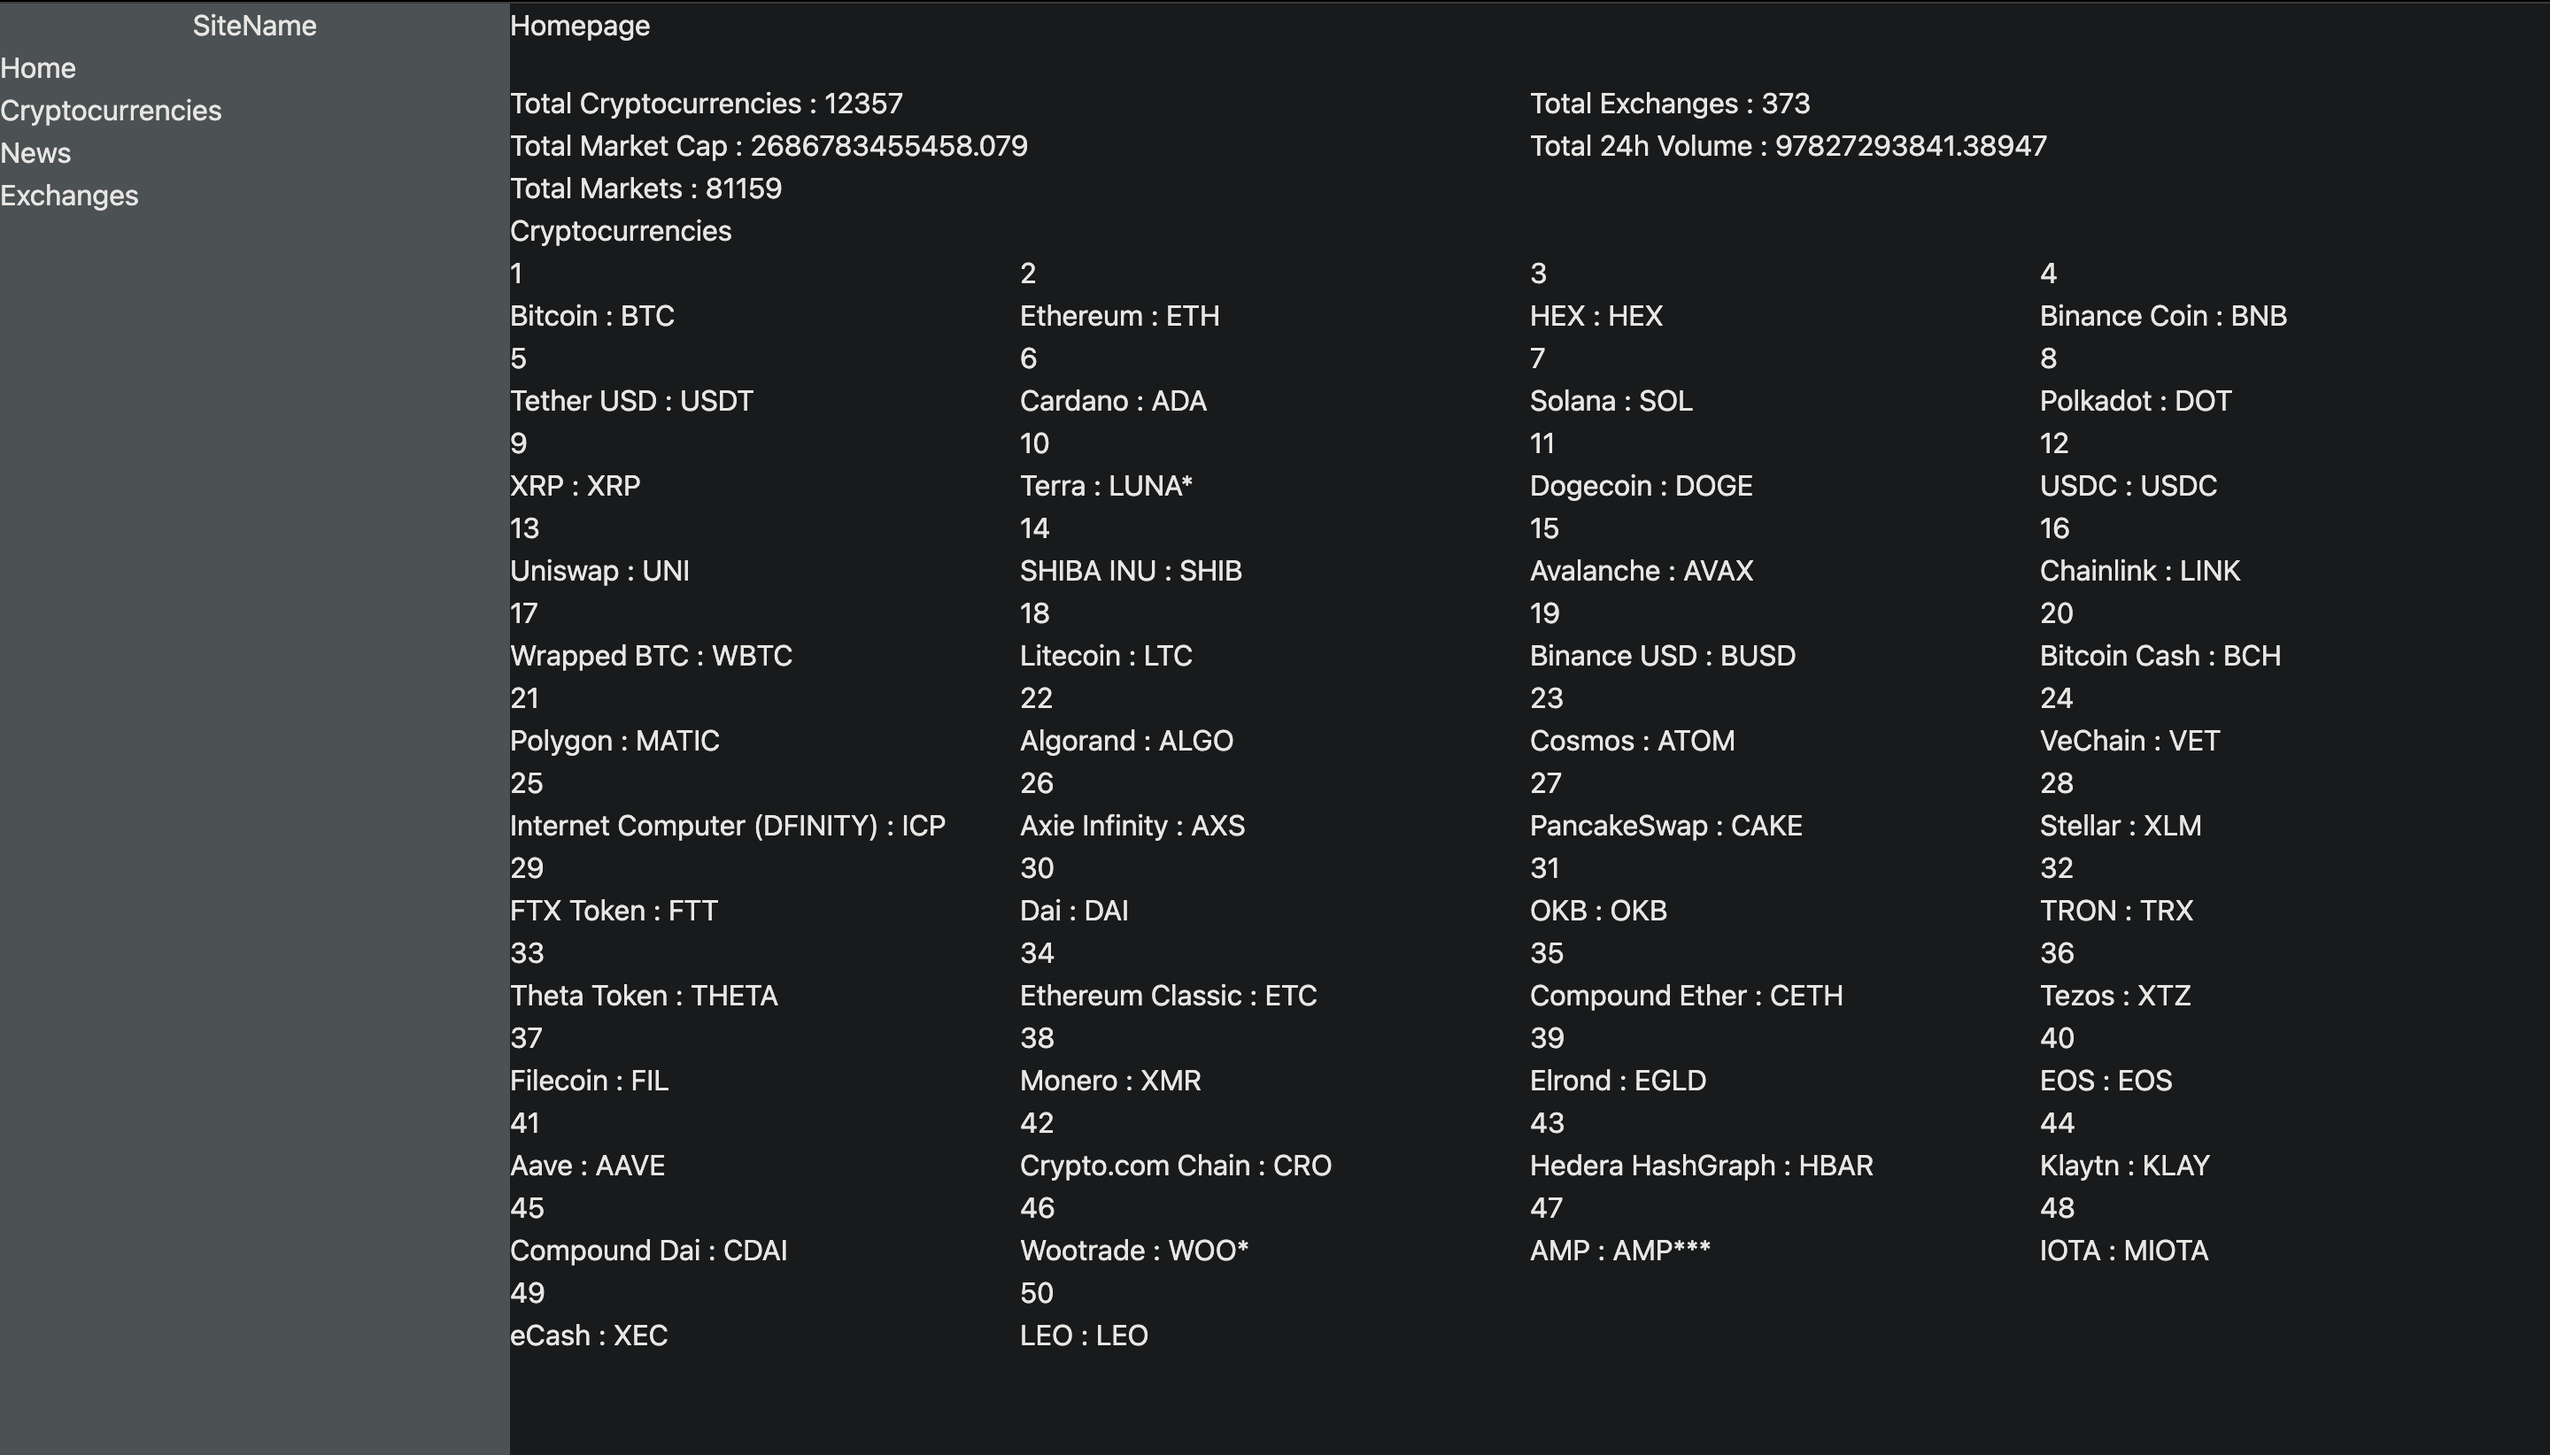
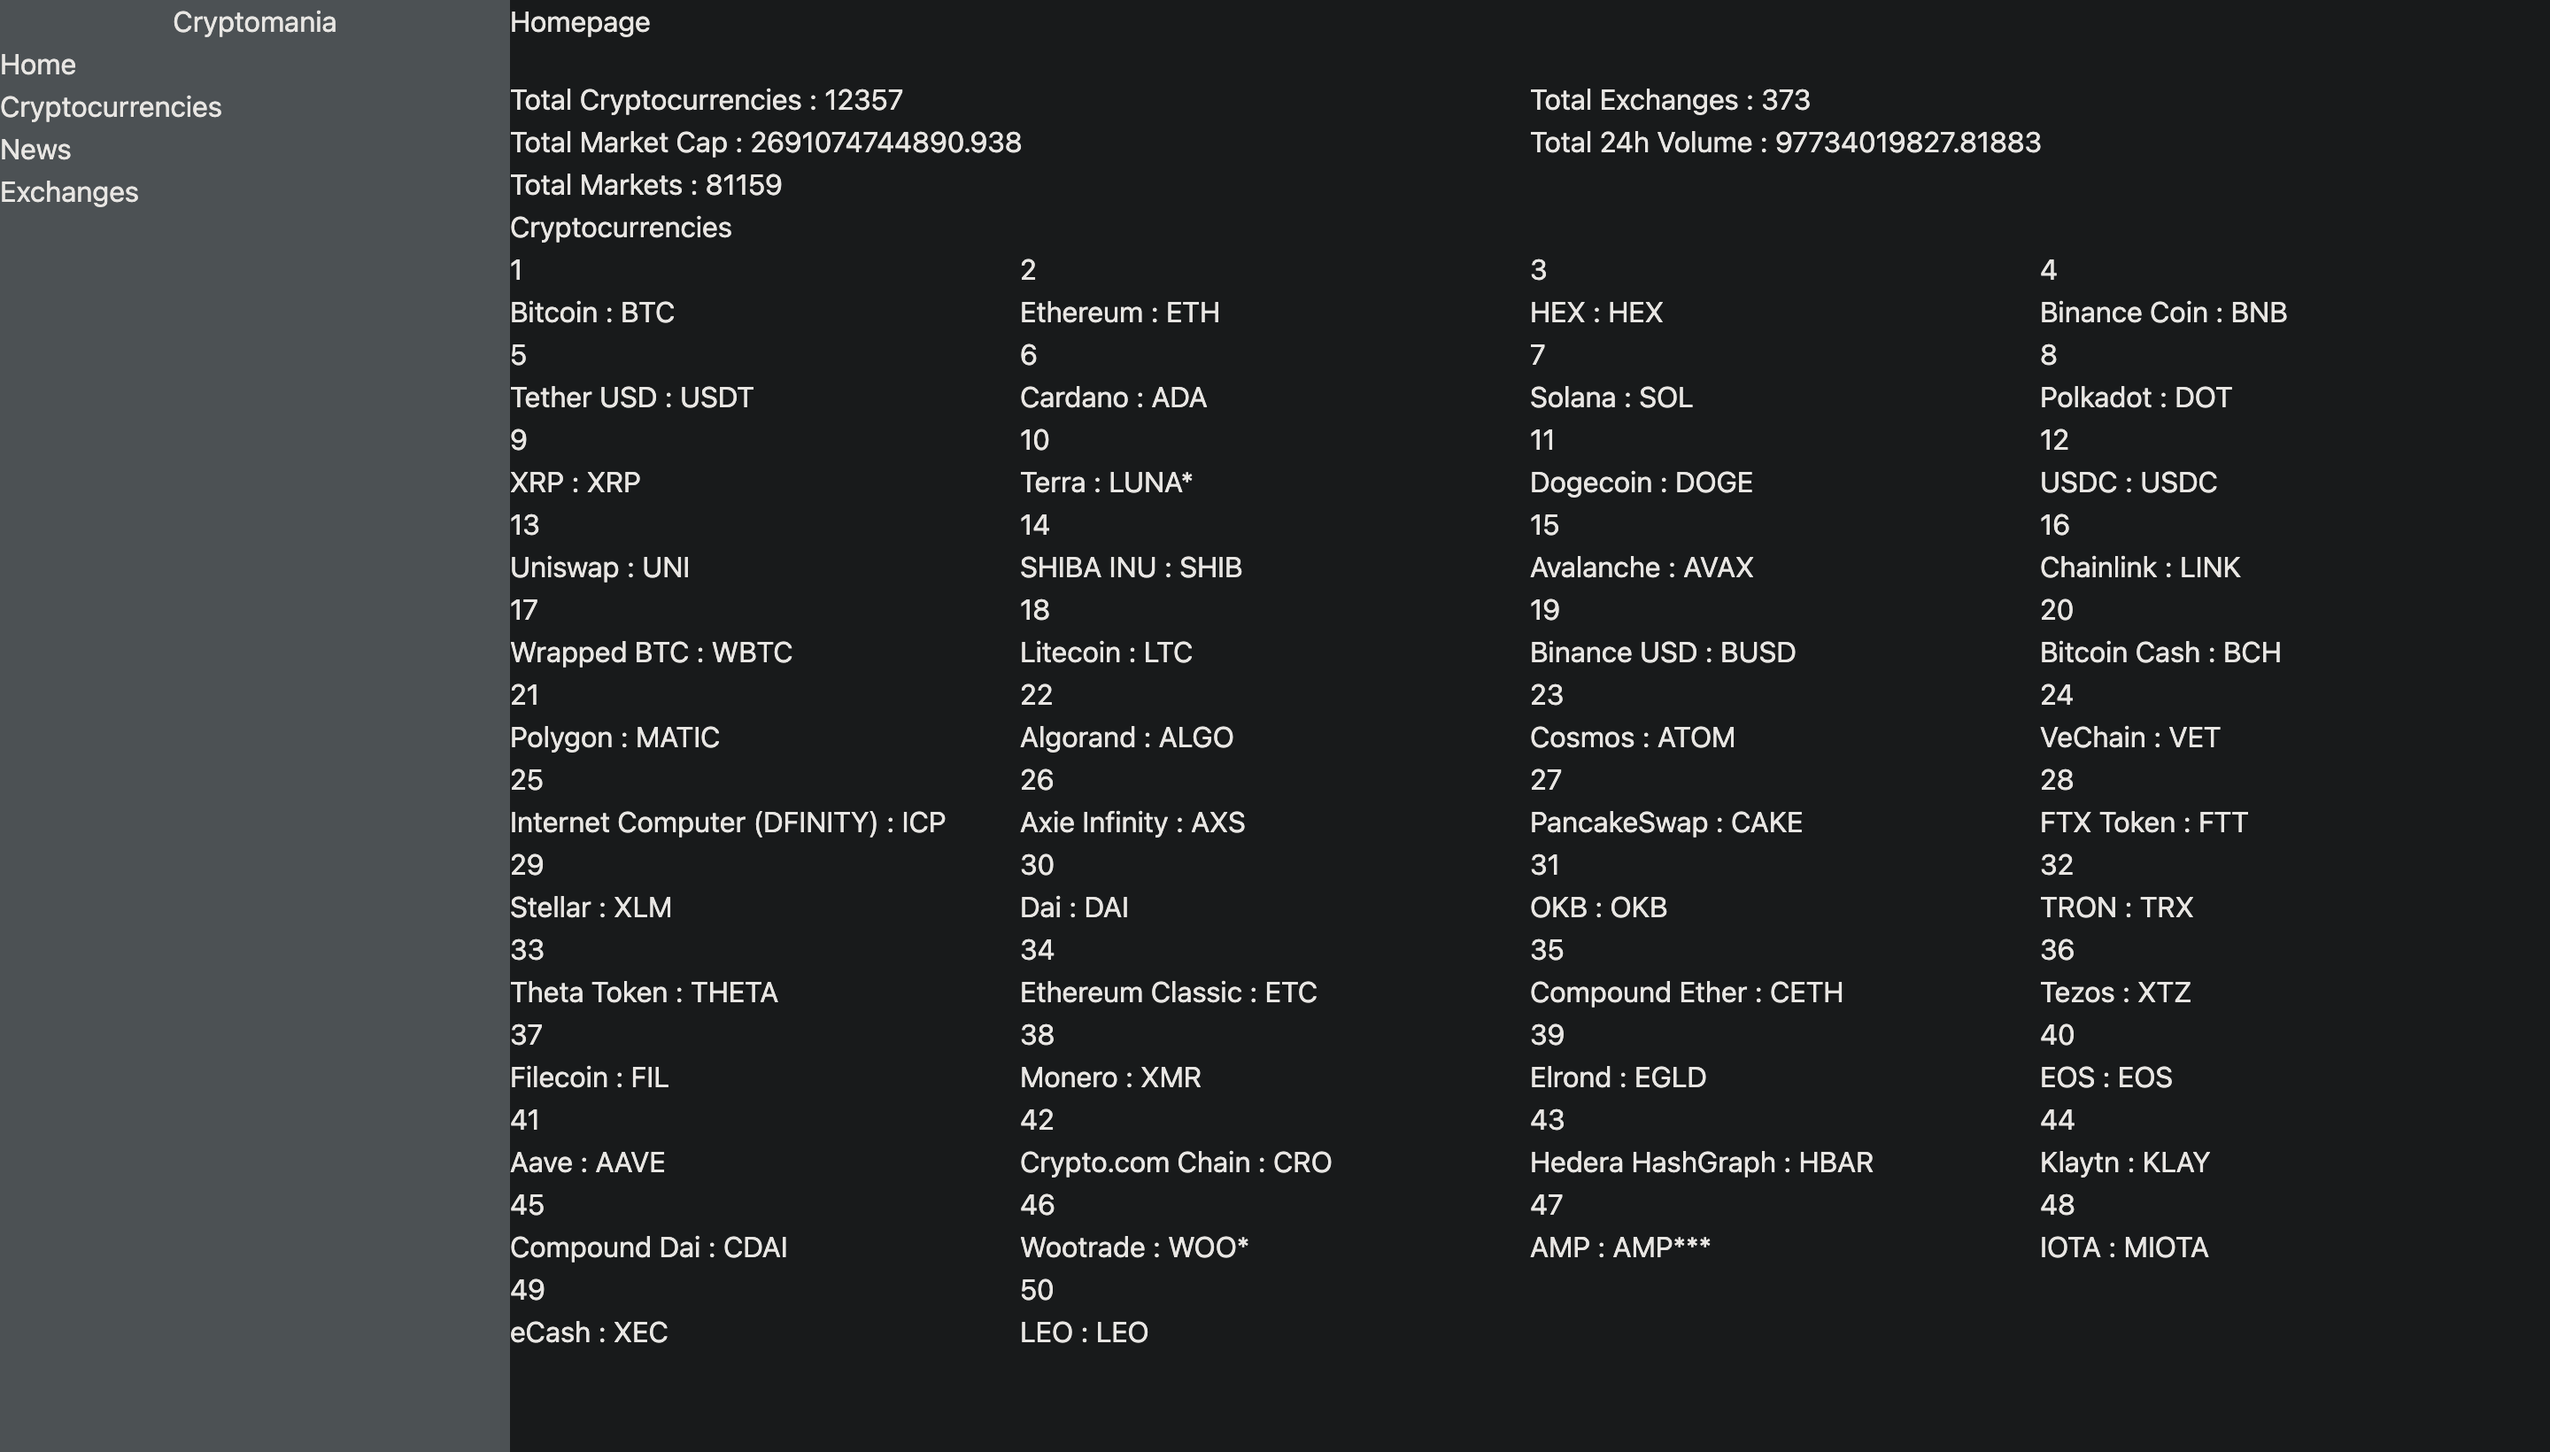
Correction in sidebar

diff --git a/src/components/Sidebar.js b/src/components/Sidebar.js
@@ -26,7 +26,7 @@ const Sidebar = () => {
     return (
         <div className="w-1/5 bg-gray-400 h-screen">
             {/* sidebar-header */}
-            <div className="text-center">SiteName</div> 
+            <div className="text-center">Cryptomania</div> 
             {/* Sidebar items and links */}
             <Navitems navLinks={navLinks}/>
         </div>
